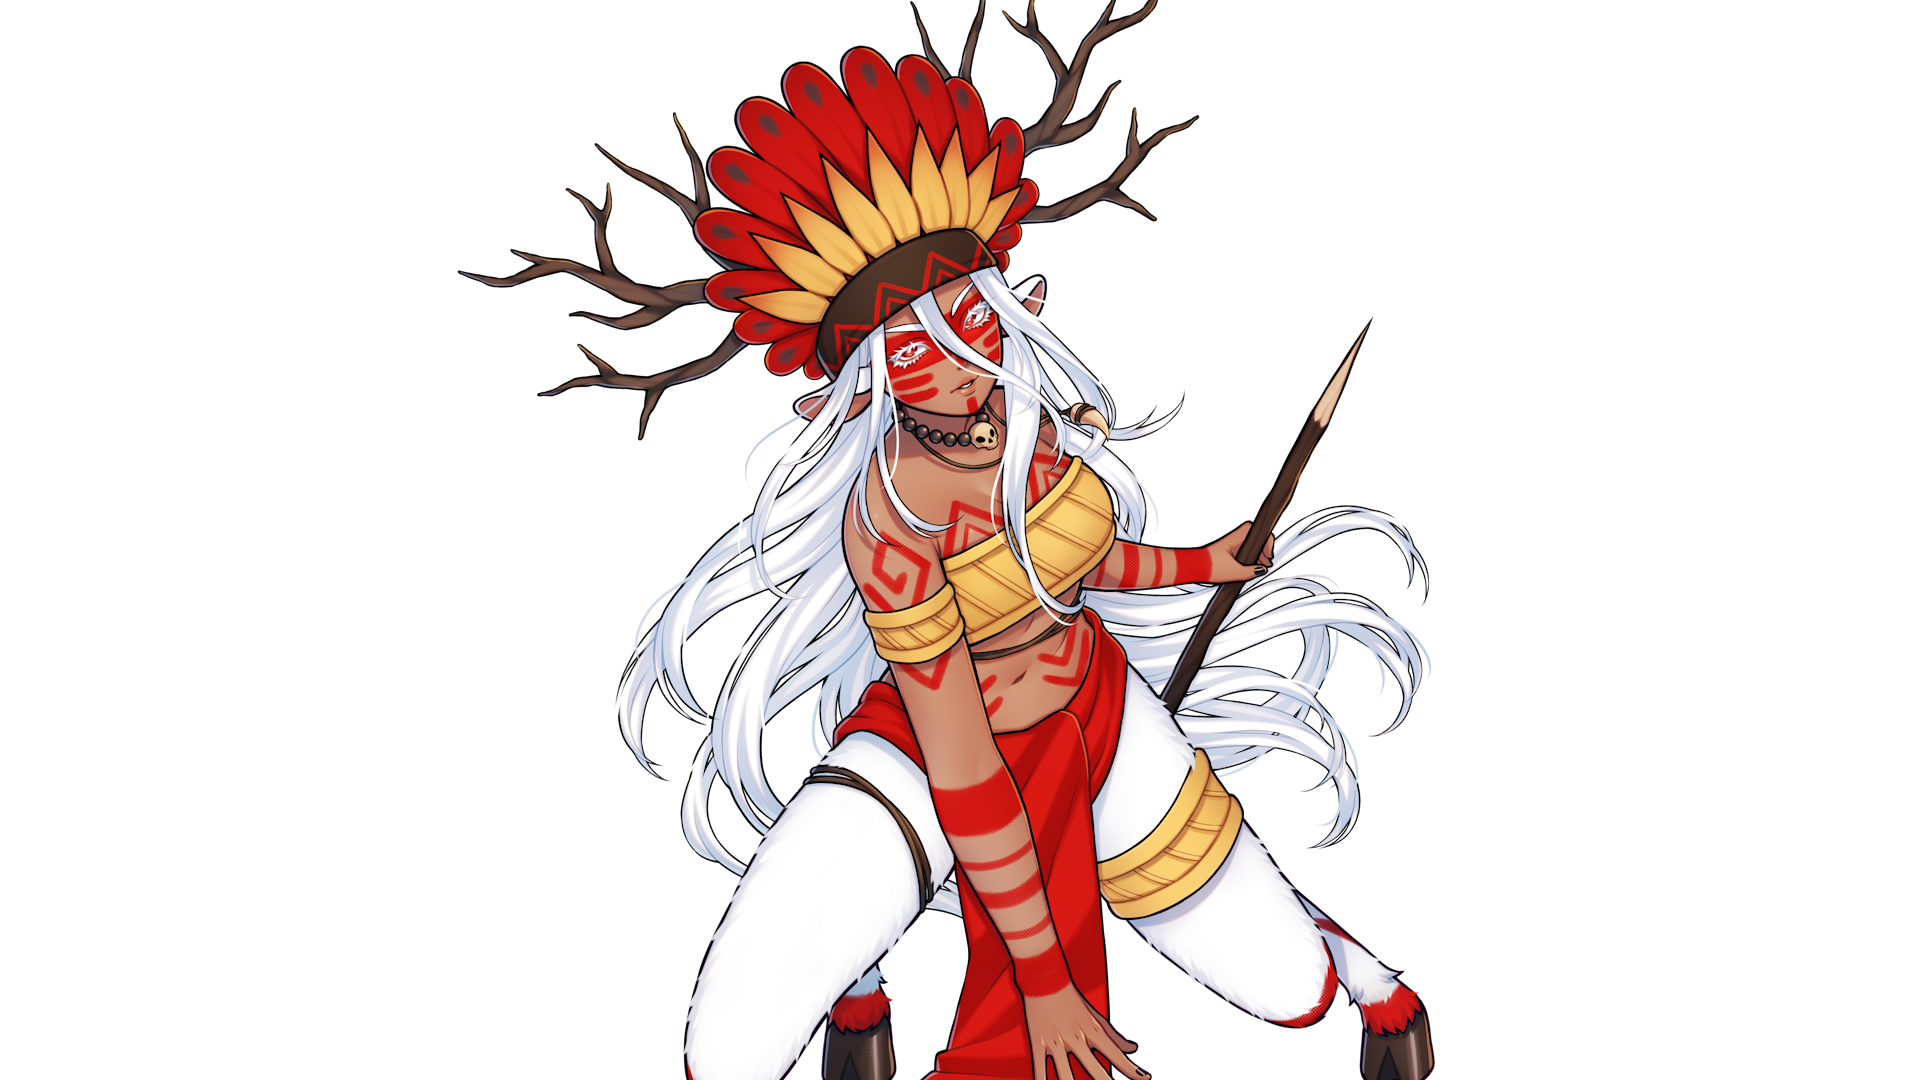
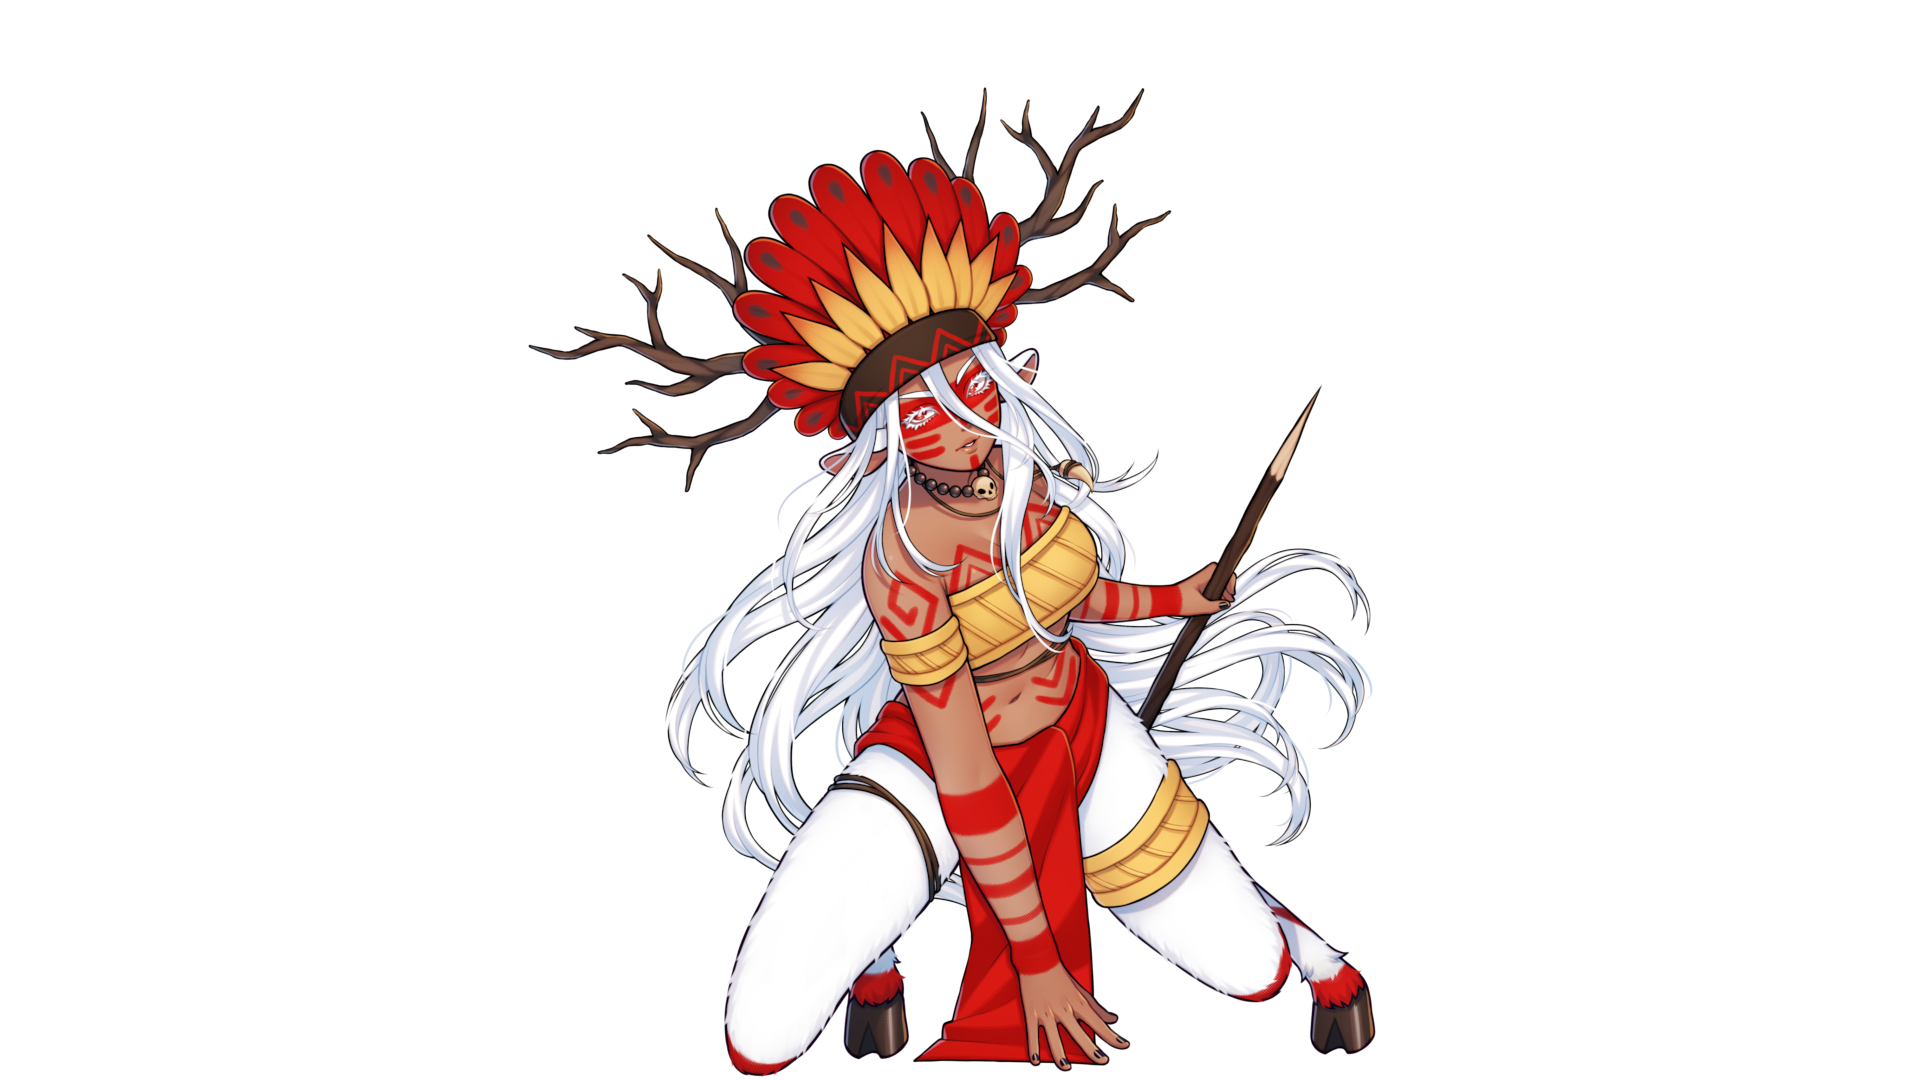
Added campaign gods

Changed region(s): [[0.25, 0.0, 0.75, 1.0]]

diff --git a/js/plugins/Kamigami_Campaign_Select.js b/js/plugins/Kamigami_Campaign_Select.js
@@ -9,6 +9,7 @@ Scene_Kamigami_CampaignSelect.prototype.constructor = Scene_Kamigami_CampaignSel
 Scene_Kamigami_CampaignSelect.prototype.initialize = function () {
     Scene_Base.prototype.initialize.call(this);
     this.createVariables();
+    this.createButtonRect();
     this.createBackMap();
     this.createBackFade();
     this.createGod();
@@ -26,15 +27,29 @@ Scene_Kamigami_CampaignSelect.prototype.createVariables = function () {
     this.countFrame = 0;
     this.configHue = [0, 260, 40, 90, 310];
     this.currentHue = 0;
+    this.mythTexts = ["greek", "egypt", "norse", "japan", "brazil"]
+    this.mapList = ["GreekCampaign", "EgyptCampaign", "NorseCampaign", "JapanCampaign", "BrazilCampaign"]
+
+}
+//-----------------------------------------------------------------------------
+// Function : updates - updates process
+//-----------------------------------------------------------------------------
+Scene_Kamigami_CampaignSelect.prototype.createButtonRect = function () {
+    this.rectButtons = new Array();
+    this.rectButtons[0] = new Rectangle(440, 300, 150, 300)
+    this.rectButtons[1] = new Rectangle(450, 700, 300, 300)
+    this.rectButtons[2] = new Rectangle(800, 925, 320, 150)
+    this.rectButtons[3] = new Rectangle(1190, 700, 300, 300)
+    this.rectButtons[4] = new Rectangle(1350, 300, 150, 300)
 }
 //-----------------------------------------------------------------------------
 // Function : updates - updates process
 //-----------------------------------------------------------------------------
 Scene_Kamigami_CampaignSelect.prototype.createBackMap = function () {
-    let mapList = ["GreekCampaign", "EgyptCampaign", "NorseCampaign", "JapanCampaign", "BrazilCampaign"]
+    
     this._backMap = new Array();
     this._backMap = new Sprite();
-    this._backMap.bitmap = ImageManager.loadCampaign(mapList[this.index]);
+    this._backMap.bitmap = ImageManager.loadCampaign(this.mapList[this.index]);
     this.addChild(this._backMap);
     this._backMap.scale.y = this._backMap.scale.x = 0.5
     this._backMap.opacity = 0;
@@ -63,10 +78,39 @@ Scene_Kamigami_CampaignSelect.prototype.createGod = function () {
     this.tl.gotoAndStop(100);
     this.tl.reverse();
     this._bigGod = new Sprite();
-    this._bigGod.bitmap = ImageManager.loadFace("ZeusF");
+    this.loadRandomGod();
+
     this.container.addChild(this._bigGod);
 }
-
+//-----------------------------------------------------------------------------
+// Function : createGod
+//-----------------------------------------------------------------------------
+Scene_Kamigami_CampaignSelect.prototype.loadRandomGod = function () {
+    let greekGods = ["ZeusF"]
+    let egyptGods = ["IsisF"]
+    let norseGods = ["ThorF"]
+    let japanGods = ["IzanamiF"]
+    let brazilGods = ["AnhangaF"]
+    let chosenGod = ""
+    switch (this.index) {
+        case 0:
+            chosenGod = greekGods[Math.floor(Math.random() * greekGods.length)]
+            break;
+        case 1:
+            chosenGod = egyptGods[Math.floor(Math.random() * egyptGods.length)]
+            break;
+        case 2:
+            chosenGod = norseGods[Math.floor(Math.random() * norseGods.length)]
+            break;
+        case 3:
+            chosenGod = japanGods[Math.floor(Math.random() * japanGods.length)]
+            break;
+        case 4:
+            chosenGod = brazilGods[Math.floor(Math.random() * brazilGods.length)]
+            break;
+    }
+    this._bigGod.bitmap = ImageManager.loadFace(chosenGod);
+}
 //-----------------------------------------------------------------------------
 // Function : createGod
 //-----------------------------------------------------------------------------
@@ -143,11 +187,11 @@ Scene_Kamigami_CampaignSelect.prototype.createDescriptions = function () {
     this._descriptionHeader1.x = 1920 - 340 + 870
     this._descriptionHeader1.alpha = 0.8
     this._descriptionMythology = new PIXI.Text("", {
-        fontFamily: 'GameFont', fontSize: 32, fill: 0xffffff, align: 'right',
+        fontFamily: 'GameFont', fontSize: 24, fill: 0xffffff, align: 'right',
         wordWrap: true,
         wordWrapWidth: 350
     });
-    this._descriptionMythology.text = IAVRA.I18N.localize("#{DuelVocab.Campaign.japanStory}")
+    this._descriptionMythology.text = IAVRA.I18N.localize(`#{DuelVocab.Campaign.${this.mythTexts[this.index]}Story}`)
     this.addChild(this._descriptionMythology);
     this._descriptionMythology.y = 100
     this._descriptionMythology.x = 1920 - 20 + 870
@@ -160,11 +204,11 @@ Scene_Kamigami_CampaignSelect.prototype.createDescriptions = function () {
     this._descriptionHeader2.x = 1920 - 340 + 870
     this._descriptionHeader2.alpha = 0.8
     this._descriptionStrategy = new PIXI.Text("", {
-        fontFamily: 'GameFont', fontSize: 32, fill: 0xffffff, align: 'right',
+        fontFamily: 'GameFont', fontSize: 24, fill: 0xffffff, align: 'right',
         wordWrap: true,
         wordWrapWidth: 350
     });
-    this._descriptionStrategy.text = IAVRA.I18N.localize("#{DuelVocab.Campaign.japanStrategy}")
+    this._descriptionStrategy.text = IAVRA.I18N.localize(`#{DuelVocab.Campaign.${this.mythTexts[this.index]}Strategy}`)
     this.addChild(this._descriptionStrategy);
     this._descriptionStrategy.y = 680
     this._descriptionStrategy.x = 1920 - 20 + 870
@@ -216,6 +260,9 @@ Scene_Kamigami_CampaignSelect.prototype.update = function () {
             break;
         case 1:
             this.updateSelection()
+            break;
+        case 2:
+            this.updateSwitchMythology();
             break;
         default:
             break;
@@ -276,10 +323,107 @@ Scene_Kamigami_CampaignSelect.prototype.updateSelection = function () {
 // Function : updateButtonHover - updates process
 //-----------------------------------------------------------------------------
 Scene_Kamigami_CampaignSelect.prototype.updateButtonHover = function () {
-    if (this._selectButtons[1].isPixelTouched()) {
-        this._selectButtons[1].setColorTone([0, 0, 0, 0])
-    } else {
-        this._selectButtons[1].setColorTone([0, 0, 0, 255])
+    let hoverBtn = this.checkButtonsHover();
+    if (TouchInput.isTriggered() && hoverBtn != -1) {
+        this.phase = 2;
+        this.oldHue = this.configHue[this.index]
+        this.maxHueDif = this.configHue[hoverBtn] - this.oldHue
+        if (this.maxHueDif > 180) {
+            this.maxHueDif -= 360
+        }
+        if (this.maxHueDif < -180) {
+            this.maxHueDif += 360
+        }
+        this.index = hoverBtn;
+        this.countFrame = 0;
+        this.resetHover();
     }
 }
+//-----------------------------------------------------------------------------
+// Function : resetHover - updates process
+//-----------------------------------------------------------------------------
+Scene_Kamigami_CampaignSelect.prototype.resetHover = function () {
+    for (let n = 0; n < 5; n++) {
+        if (n == this.index) {
+            continue;
+        }
+        this._selectButtons[n].setColorTone([0, 0, 0, 255])
+    }
+}
+
+
+//-----------------------------------------------------------------------------
+// Function : updateButtonHover - updates process
+//-----------------------------------------------------------------------------
+Scene_Kamigami_CampaignSelect.prototype.checkButtonsHover = function () {
+    for (let n = 0; n < 5; n++) {
+        if (n == this.index) {
+            continue;
+        }
+        if (this.rectButtons[n].contains(TouchInput.x, TouchInput.y)) {
+            this._selectButtons[n].setColorTone([0, 0, 0, 0])
+            return n;
+        } else {
+            this._selectButtons[n].setColorTone([0, 0, 0, 255])
+
+        }
+    }
+    return -1;
+}
+
+
 //
+//-----------------------------------------------------------------------------
+// Function : updateSwitchMythology - updates process
+//-----------------------------------------------------------------------------
+Scene_Kamigami_CampaignSelect.prototype.updateSwitchMythology = function () {
+    this.countFrame++;
+    let currentHue = 0;
+    if (this.countFrame == 1) {
+        this.tl.play();
+
+    }
+    if (this.countFrame < 30){
+        this._backMap.opacity -= 10
+        if (this._descriptionMythology.alpha > 0) {
+            this._descriptionMythology.alpha -= 0.05
+            this._descriptionStrategy.alpha -= 0.05
+        }
+    }
+    if (this.countFrame == 30){
+        this._backMap.bitmap = ImageManager.loadCampaign(this.mapList[this.index]);
+        this._descriptionMythology.text = IAVRA.I18N.localize(`#{DuelVocab.Campaign.${this.mythTexts[this.index]}Story}`)
+        this._descriptionStrategy.text = IAVRA.I18N.localize(`#{DuelVocab.Campaign.${this.mythTexts[this.index]}Strategy}`)
+ 
+    }
+    if (this.countFrame > 30){
+        this._backMap.opacity += 10
+        if (this._descriptionMythology.alpha < 0.8) {
+            this._descriptionMythology.alpha += 0.05
+            this._descriptionStrategy.alpha += 0.05
+        }
+    }
+
+    if (this.countFrame < 60) {
+        currentHue = (this.countFrame / 60) * this.maxHueDif + this.oldHue
+        this.changeHue(currentHue)
+    }
+    if (this.countFrame == 60) {
+        this.changeHue(this.configHue[this.index])
+        this.phase = 1;
+        this.loadRandomGod();
+        this.tl.reverse();
+    }
+
+    //this._buttonBack
+}
+
+//-----------------------------------------------------------------------------
+// Function : changeHue - updates process
+//-----------------------------------------------------------------------------
+Scene_Kamigami_CampaignSelect.prototype.changeHue = function (hue) {
+    for (let n = 0; n < 4; n++) {
+        this._buttonBack[n].setHue(hue)
+    }
+    this._backFade.setHue(hue)
+}   

diff --git a/js/plugins/KamigamiLoading.js b/js/plugins/KamigamiLoading.js
@@ -131,7 +131,7 @@ Scene_Loading.prototype.loadAllGameImages = function () {
     var fs = require('fs');
     let files = fs.readdirSync(baseUrl);
     let filesImg;
-    files.splice(files.indexOf("pictures"), 1)
+    //files.splice(files.indexOf("pictures"), 1)
     this.allFiles = 0;
     for (let n = 0; n < files.length; n++) {
         filesImg = fs.readdirSync(baseUrl + files[n]);
